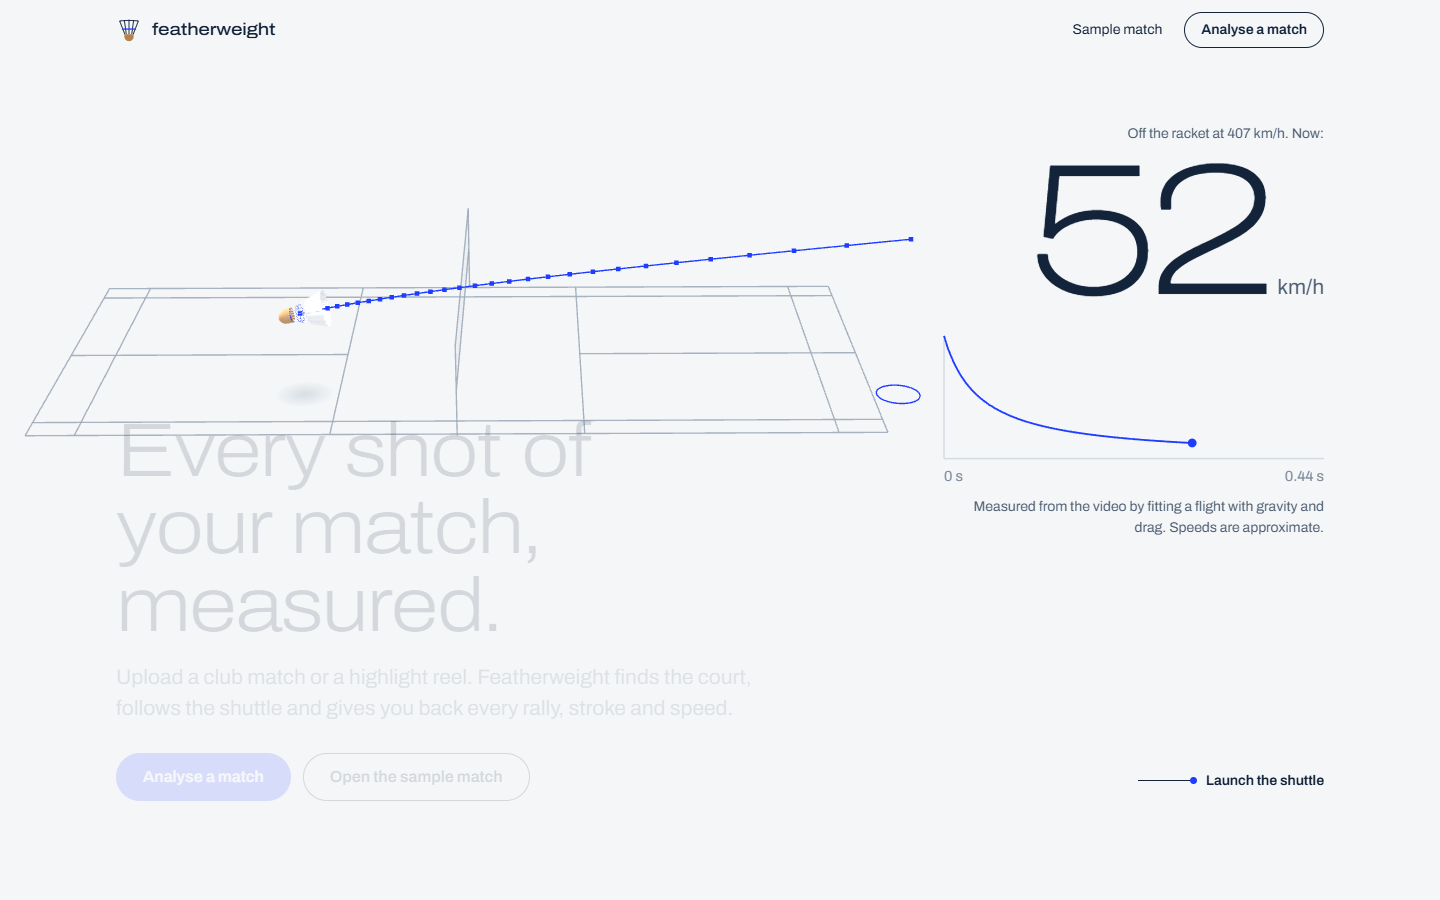
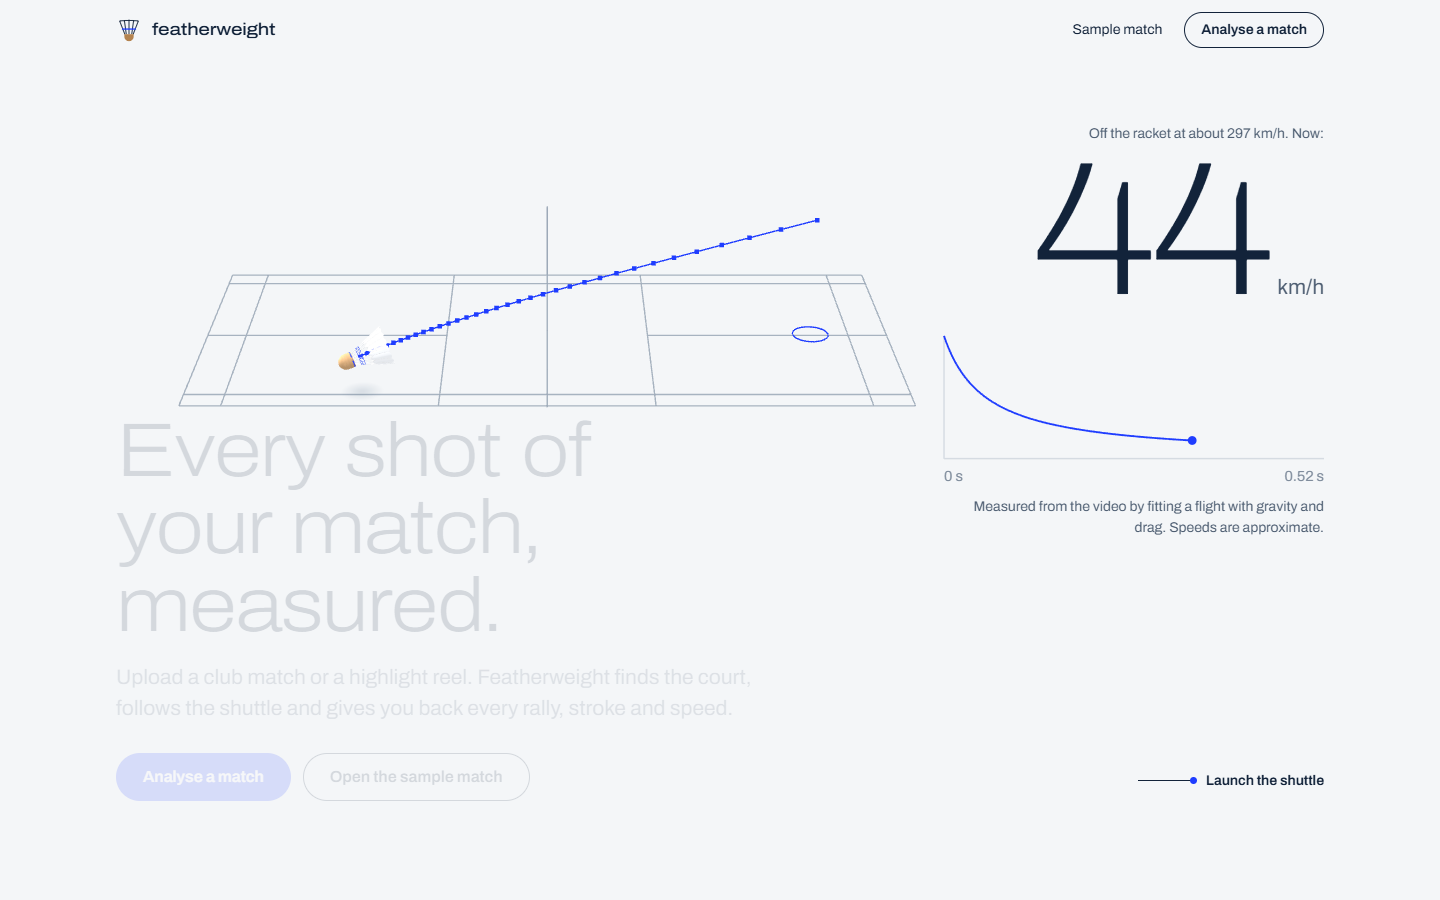
Featherweight hero: pick a believable fast smash and keep the court clear of the headline
The hero now flies the fastest good smash at or below the clip's 90th
percentile of good smash speeds (capped at 300 km/h) instead of a fit near
the bound, with hedged copy. The wide shot is framed from the court's side,
pulled back and raised so it no longer overlaps the headline or the readout.

diff --git a/design/prototypes/b-featherweight/js/data.js b/design/prototypes/b-featherweight/js/data.js
@@ -62,20 +62,29 @@ export function teamName(analysis, team) {
   return teamMembers(analysis, team).map((id) => nameOf(analysis, id)).join(' & ');
 }
 
-/** The data's fastest shot with a good flight fit (a smash when there is one). */
+/**
+ * A believable fast shot for the hero. Single flight fits can be well off and
+ * the fastest "good" fits sit near the fit's bound, so take the fastest good
+ * smash at or below the clip's 90th percentile of good smash speeds (and no
+ * more than 300 km/h). Falls back to any good shot under the same rule.
+ */
 export function fastestShot(analysis) {
-  let best = null;
+  const all = [];
   analysis.rallies.forEach((rally) => {
     rally.shots.forEach((shot, i) => {
       const f = shot.flight;
-      if (!f || f.quality !== 'good' || f.initial_speed_kmh == null) return;
-      if (!shot.hitter_position) return;
-      if (!best || f.initial_speed_kmh > best.shot.flight.initial_speed_kmh) {
-        best = { shot, rally, next: rally.shots[i + 1] || null };
-      }
+      if (!f || f.quality !== 'good' || f.initial_speed_kmh == null || !shot.hitter_position) return;
+      all.push({ shot, rally, next: rally.shots[i + 1] || null, v: f.initial_speed_kmh });
     });
   });
-  return best;
+  const pick = (list) => {
+    if (!list.length) return null;
+    const sorted = list.map((c) => c.v).sort((a, b) => a - b);
+    const p90 = sorted[Math.min(sorted.length - 1, Math.floor(0.9 * (sorted.length - 1)))];
+    const cap = Math.min(p90, 300);
+    return list.filter((c) => c.v <= cap).sort((a, b) => b.v - a.v)[0] || null;
+  };
+  return pick(all.filter((c) => c.shot.family === 'smash')) || pick(all);
 }
 
 // ---------- geometry ----------

diff --git a/design/prototypes/b-featherweight/js/hero.js b/design/prototypes/b-featherweight/js/hero.js
@@ -351,10 +351,11 @@ export function createHero(canvas, flight, { onFrame } = {}) {
   // camera framing
   const mid = start.clone().lerp(end, 0.5);
   mid.y = 1.4;
+  mid.x = 0;
+  mid.z = 0;
   const dir0 = new THREE.Vector3(0.28, 0.1, 1).normalize();
-  const along = end.clone().sub(start).setY(0).normalize();
-  const sideways = new THREE.Vector3(along.z, 0, -along.x);
-  if (sideways.x < 0) sideways.negate();
+  // always frame from the side of the court, whatever the shot's direction
+  const sideways = new THREE.Vector3(1, 0, 0);
   const dir1 = sideways.clone().multiplyScalar(1).add(new THREE.Vector3(0, 0.42, 0)).normalize();
   let d1 = 18;
   let w = 1;
@@ -370,7 +371,7 @@ export function createHero(canvas, flight, { onFrame } = {}) {
     camera.aspect = w / h;
     camera.fov = narrow ? 40 : 28;
     const hfov = 2 * Math.atan(Math.tan((camera.fov * Math.PI) / 360) * camera.aspect);
-    d1 = Math.max(16, (narrow ? 7.6 : 11.5) / Math.tan(hfov / 2));
+    d1 = Math.max(16, (narrow ? 7.6 : 14) / Math.tan(hfov / 2));
     scene.fog.near = d1 * 1.2;
     scene.fog.far = d1 * 2.6;
     camera.updateProjectionMatrix();
@@ -445,7 +446,7 @@ export function createHero(canvas, flight, { onFrame } = {}) {
     camera.lookAt(target);
     // shift the resting shuttle off centre so it sits beside the headline
     if (narrow) camera.setViewOffset(w, h, 0, h * lerp(0.13, 0.06, pull), w, h);
-    else camera.setViewOffset(w, h, w * lerp(-0.17, 0.12, pull), h * lerp(-0.04, 0.15, pull), w, h);
+    else camera.setViewOffset(w, h, w * lerp(-0.17, 0.12, pull), h * lerp(-0.04, 0.2, pull), w, h);
 
     renderer.render(scene, camera);
 

diff --git a/design/prototypes/b-featherweight/js/main.js b/design/prototypes/b-featherweight/js/main.js
@@ -75,7 +75,7 @@ async function landing(root) {
         </div>
       </div>
       <div class="readout" data-readout>
-        <p class="readout-kicker" data-kicker>The fastest shot in the sample match</p>
+        <p class="readout-kicker" data-kicker>One of the hardest shots in the sample match</p>
         <div class="readout-num"><span class="num" data-speed>0</span><span class="unit">km/h</span></div>
         <svg class="decay" viewBox="0 0 260 96" aria-hidden="true">
           <line class="axis" x1="0" y1="88" x2="260" y2="88"/>
@@ -165,7 +165,7 @@ async function landing(root) {
       dot.setAttribute('cx', 0);
       dot.setAttribute('cy', Y(speed).toFixed(1));
     }
-    kickerEl.textContent = fl > 0 ? `Off the racket at ${Math.round(vmax)} km/h. ${p >= 0.88 ? 'On arrival:' : 'Now:'}` : 'The fastest shot in the sample match';
+    kickerEl.textContent = fl > 0 ? `Off the racket at about ${Math.round(vmax)} km/h. ${p >= 0.88 ? 'On arrival:' : 'Now:'}` : 'One of the hardest shots in the sample match';
     capEl.innerHTML = p >= 0.9 ? finalCap : 'Measured from the video by fitting a flight with gravity and drag. Speeds are approximate.';
     launchLabel.textContent = p >= 0.9 ? 'Launch it again' : 'Launch the shuttle';
   }
